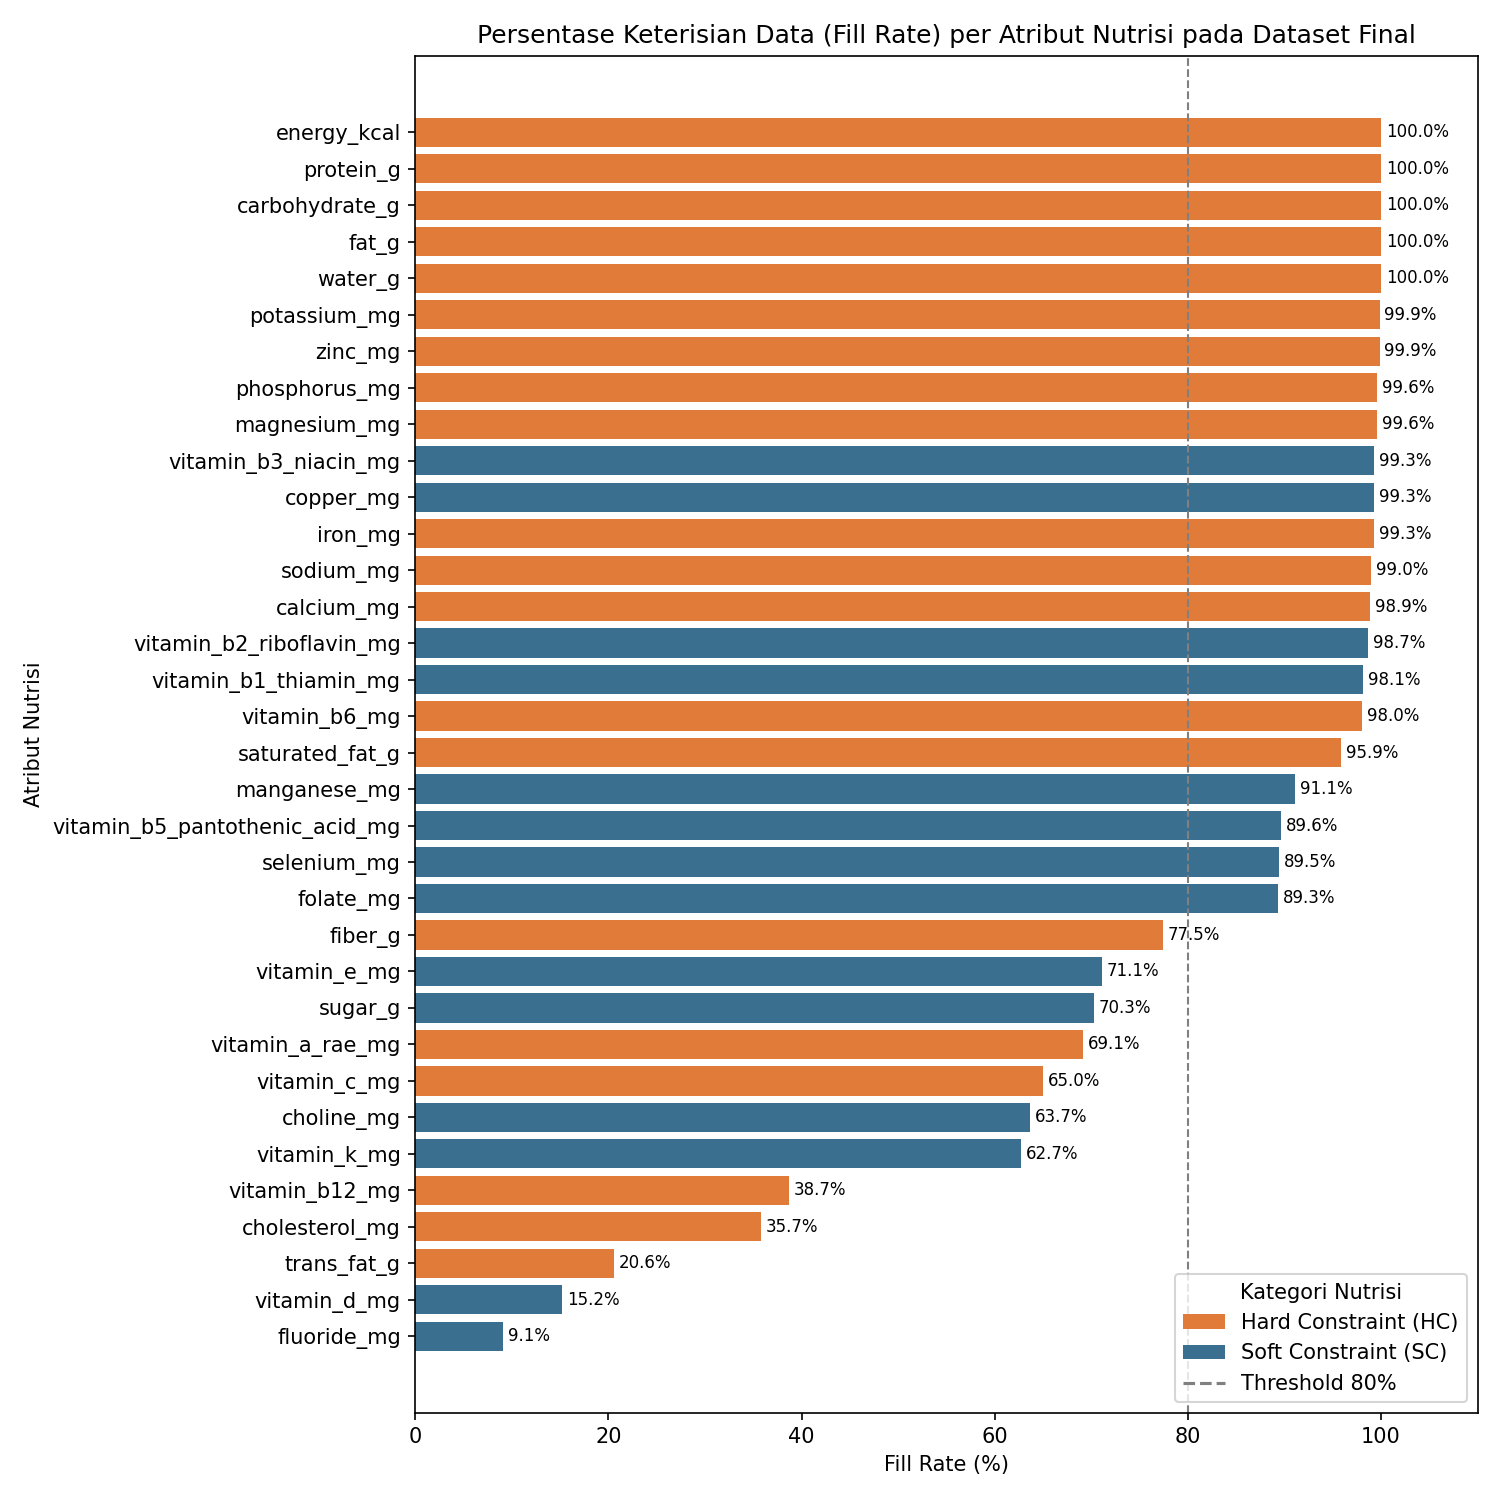
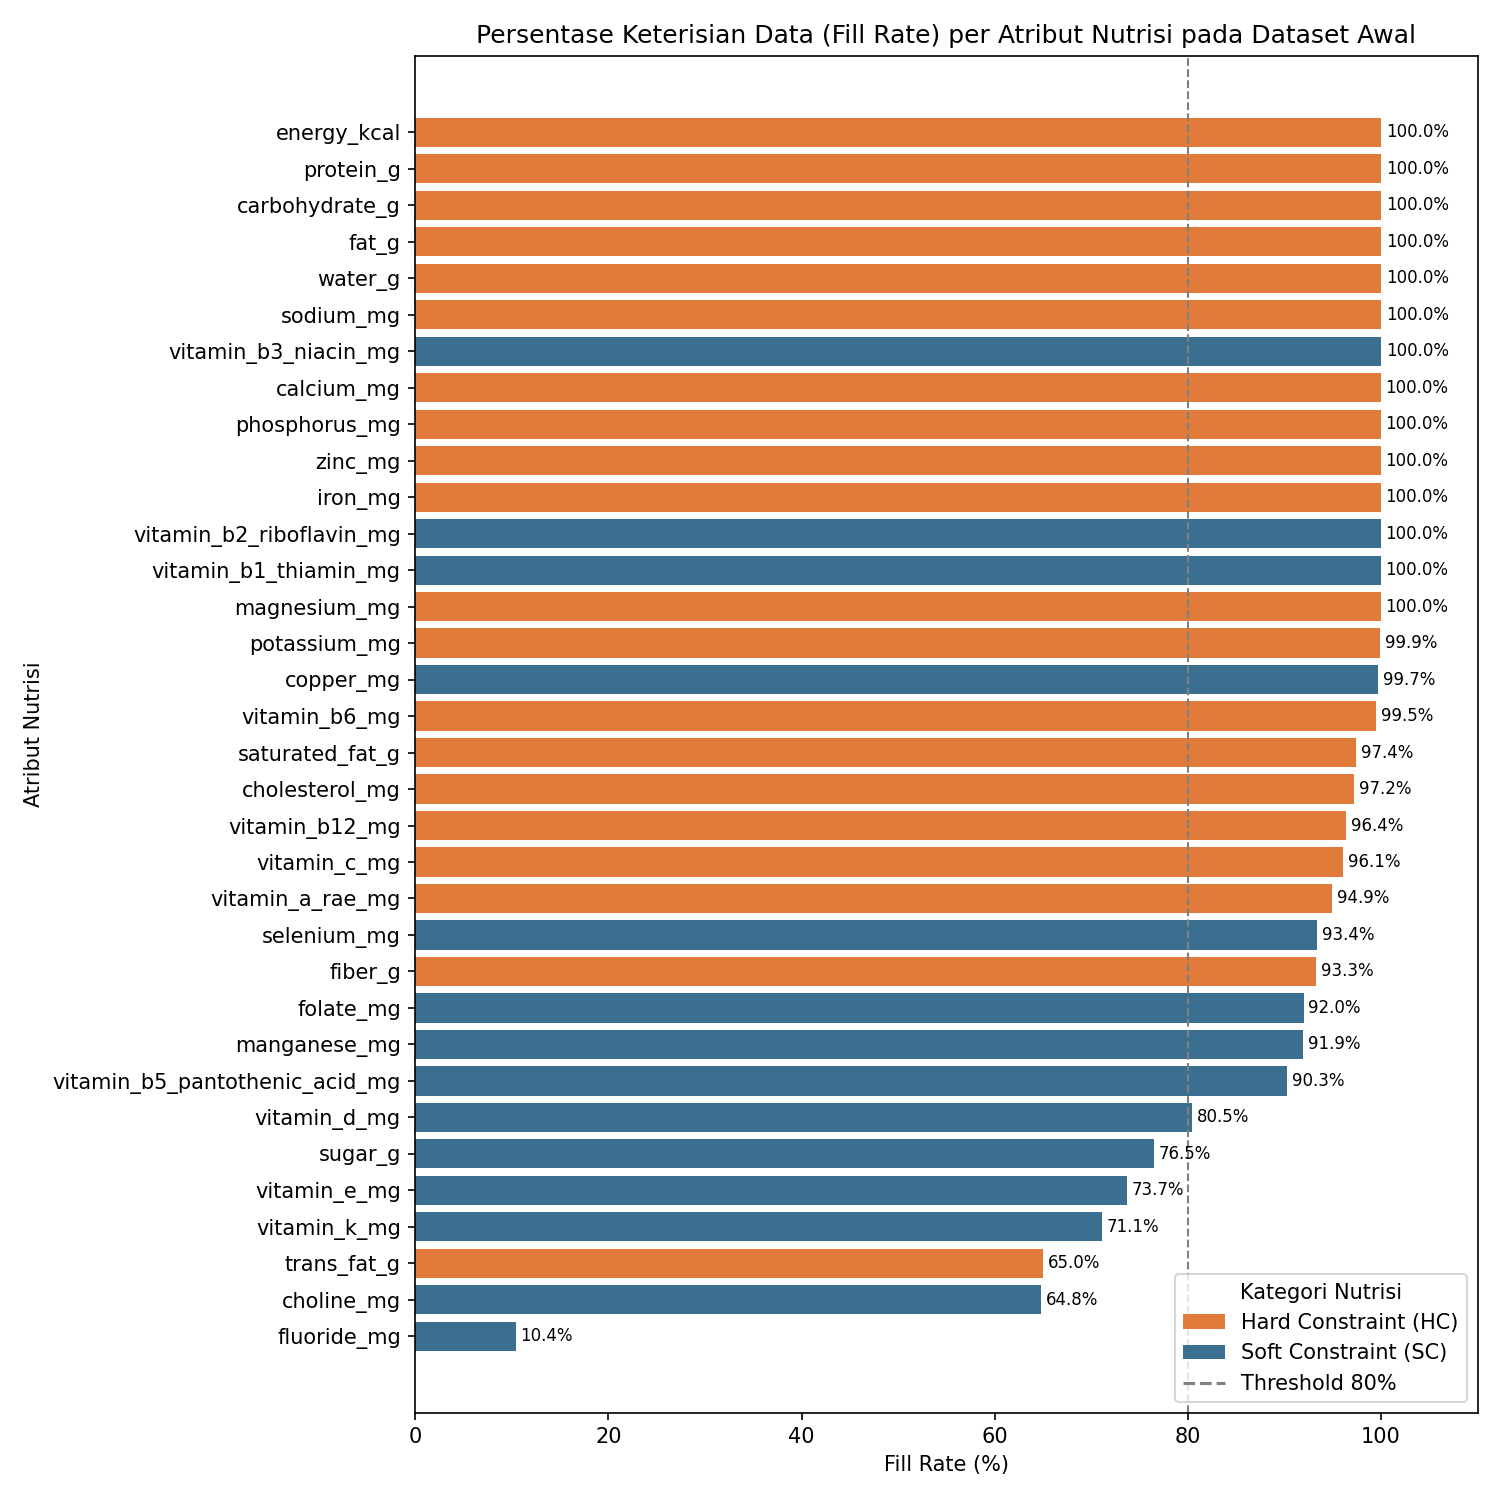
30

Changed region(s): [[0.0307, 0.184, 0.9813, 0.92], [0.3373, 0.0, 0.92, 0.0307], [0.184, 0.8587, 0.2453, 0.8893]]

diff --git a/D. Model/Genetic Algorithm/d_ga_tuning.py b/D. Model/Genetic Algorithm/d_ga_tuning.py
@@ -60,7 +60,7 @@ PROFILES = [
     {**_BASE, 'name': 'Hipertensi + Hiperkolesterolemia + CVD',  'disease': ['hypertension', 'cholesterol', 'cvd']},
 ]
 
-N_TRIALS = 100
+N_TRIALS = 30
 
 # ─────────────────────────────────────────────────────────────────────────────
 # 3. SETUP DATA — preload semua profil sekali saja
